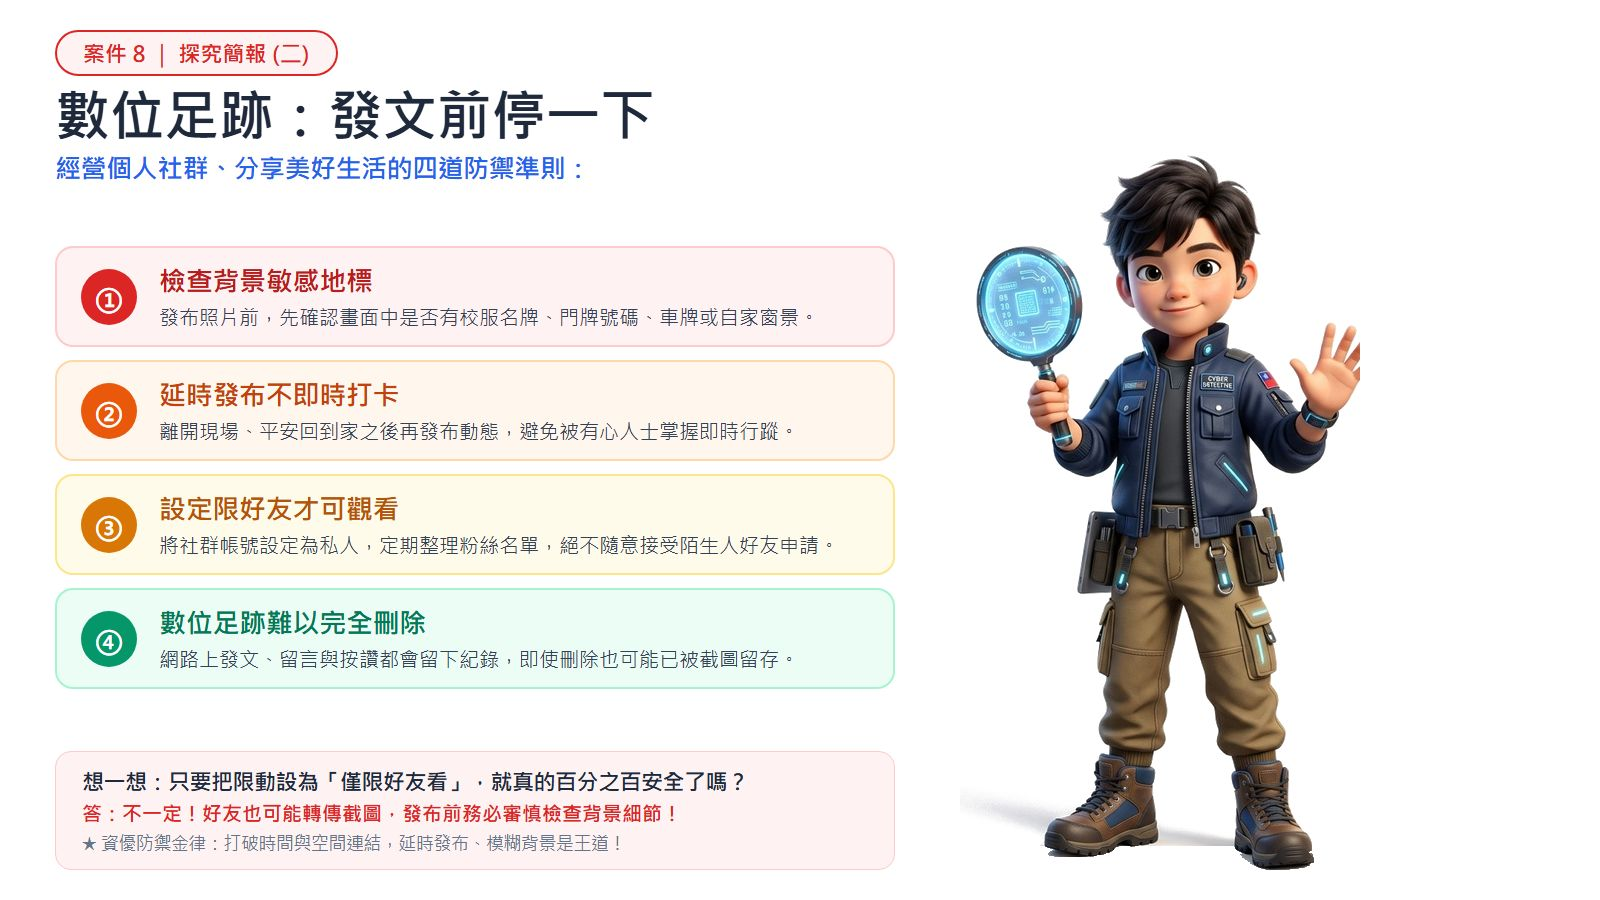
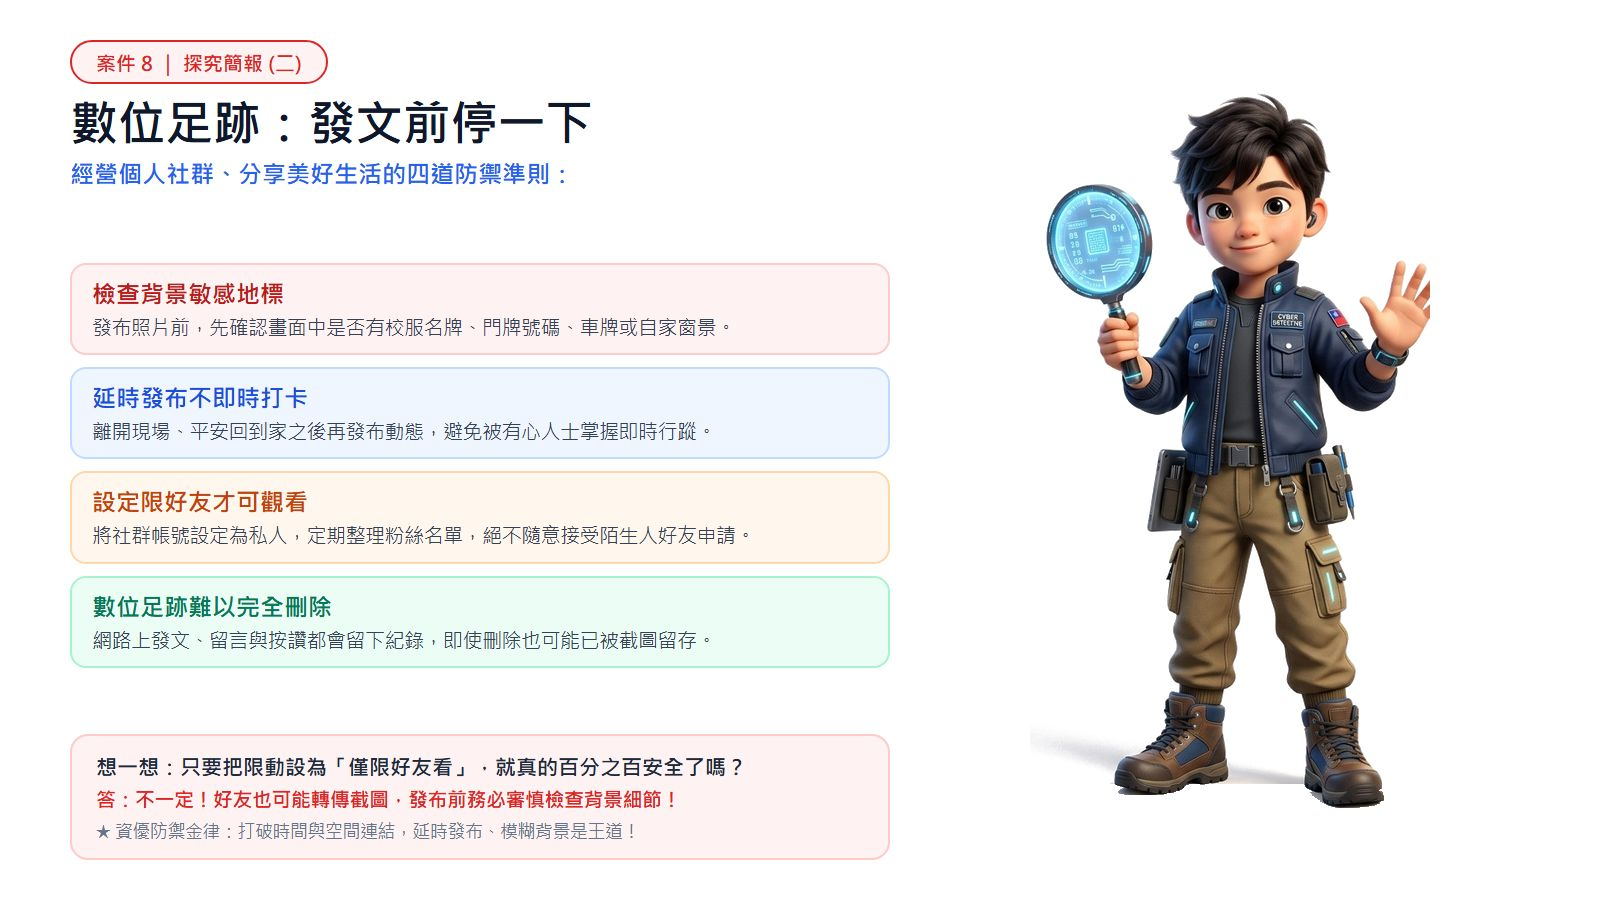
feat: 依 Kristy 指導完成案件 8 (選項 B 彩框無數字大字版) 正式上線

diff --git a/units/g5-cyber-safety/index.html b/units/g5-cyber-safety/index.html
@@ -587,7 +587,7 @@
         {
           title: '案件 8　限時動態洩密',
           text: '沒寫名字也可能洩密。制服、門牌、站牌、打卡地點和時間，拼起來就能找到你。發文前先看一看，回家後晚點再發，限好友看。',
-          slides: ['assets/d1_story.jpg?v=20261024_case8_pixar_perfect', 'assets/d2_footprint.jpg?v=20261024_case8_pixar_perfect'],
+          slides: ['assets/d1_story.jpg?v=20261024_case8_b_perfect', 'assets/d2_footprint.jpg?v=20261024_case8_b_perfect'],
           interactive: GAMES.story,
           quizzes: [
             {
@@ -608,7 +608,7 @@
               feedback: '延時發布能打破「時間＋空間」的物理連結，讓潛在犯罪者無法掌握你的即時行蹤。'
             }
           ],
-          infographic: 'assets/i8_story_v3.jpg?v=20261024_case8_pixar_perfect',
+          infographic: 'assets/i8_story_v3.jpg?v=20261024_case8_b_perfect',
           teacherTips: ['可請學生分組找出自己平常拍照容易入鏡的個資（制服、名牌、車牌、門牌、窗外地標）。']
         },
         {

diff --git a/handoff.md b/handoff.md
@@ -146,21 +146,28 @@
   - **Kristy 確認選擇「B」**：採用 4 彩色大卡片框（紅、藍、橘、綠對比鮮明版），徹底移除 `1 2 3 4` 數字，標題放大至 `24px`，內文放大至 `19.5px`。
   - **排版呼吸感優化**：大標題精煉為單行 `偷拍的照片會說話：照片隱私大解密`，底部「想一想」文字框與「★ 資安偵探金律」框與上方 4 個彩框 100% 精準對齊，右側 3D 綠毛衣男孩展示 GPS 平板與紅領巾女孩同理心互動立體無瑕，球鞋穩健踏地留白充裕。
   - **快取碼刷新與上線**：覆蓋 `final_case7.jpg` 與 `i7_photo_v3.jpg`，更新 `index.html` 快取碼 `?v=20261024_case7_b_perfect`。
+- **依據 Kristy 最新指導完成案件 8（小美的限動冒險·紅藍橘綠 4 彩框大字體·無數字·小美自拍與小男孩停看聽）全面升級上線（2026-10-24 21:52）**：
+  - **Kristy 確認選擇「B」**：採用 4 彩色大卡片框（紅、藍、橘、綠對比鮮明版），徹底移除 `1 2 3 4` 數字，標題放大至 `24px`，內文放大至 `19.5px`。
+  - **全套三圖升級完成**：
+    - 探究簡報（一）（`d1_story.jpg`）：小美自拍與背景資訊（學校名牌、門牌號碼、站牌地標、即時打卡），搭配純白 3D 小美自拍女孩。
+    - 探究簡報（二）（`d2_footprint.jpg`）：小男孩偵探停一下手勢（檢查背景、延時發布、設限好友、足跡難刪），小男孩向左微移保留 70px 黃金呼吸留白。
+    - 探究思維圖解（`i8_story_v3.jpg`）：限時動態防洩密指南（隱藏制服、模糊地標、延時發布、限好友），四彩框＋底部防洩密金律框。
+  - **快取碼刷新與上線**：覆蓋 `d1_story.jpg`、`d2_footprint.jpg` 與 `i8_story_v3.jpg`，更新 `index.html` 快取碼 `?v=20261024_case8_b_perfect`。
 - 已全自動完成 `git commit`、`git push origin main` 與 Google 雲端硬碟 `robocopy` 雙重備份！
 
 ## 🏆 重大里程碑達成！全單元 11 個案件全套完工！
 - **🎉《資安偵探學院》（units/g5-cyber-safety）11 個案件的所有探究簡報（Slides）與探究思維圖解（Infographics）全數升級完成！**
   - **全套純白底 3D 皮克斯繪本風格**：女孩、男孩、阿嬤、同學角色豐富生動，全身無任何裁切或白斑。
   - **全套統一紅框紅字規格標籤**：`案件 N ｜ 探究簡報`、`案件 N ｜ 探究思維圖解`。
-  - **依案件屬性精緻化版面**：案件 1 採用純金字塔＋紅色向上階梯箭頭；案件 2、案件 3、案件 4、案件 5、案件 6、案件 7 採用彩框大字體無數字版；其他案件依屬性配置四彩大卡片或清爽大字圓點條列。
+  - **依案件屬性精緻化版面**：案件 1 採用純金字塔＋紅色向上階梯箭頭；案件 2、案件 3、案件 4、案件 5、案件 6、案件 7、案件 8 採用彩框大字體無數字版；其他案件依屬性配置四彩大卡片或清爽大字圓點條列。
   - **全套統一底部互動問答框 / 金律提示框**：增強課堂互動與核心觀念收斂。
   - **全套統一舒適呼吸留白**：文字卡片與插圖間保留 70px~150px 充裕空間，徹底告別擁擠與遮擋。
 - 教學影片播放清單（含《2020》網路危機等 4 部短片）已上線。
 
 ## ➡ 下一步
-1. 緊接著「照順序」推進【案件 8：小美的限動冒險（限時動態防洩密與隱私）】：
-   - 準備案件 8 的打樣預覽（選項 A 無中間框 vs 選項 B 有 4 彩框），呈報 Kristy 檢閱二選一。
-2. 案件 8 確認後，依序推進案件 9、案件 10、案件 11...
+1. 緊接著「照順序」推進【案件 9：釣魚網址與 QR code 陷阱】：
+   - 準備案件 9 的打樣預覽（選項 A 無中間框 vs 選項 B 有 4 彩框），呈報 Kristy 檢閱二選一。
+2. 案件 9 確認後，依序推進案件 10、案件 11。
 3. 始終堅持「改之前必定給 Kristy 確認」！
 
 ## ⚠ 注意事項
@@ -168,7 +175,8 @@
 - 所有插圖一律為 16:9 純白底繪本規格，零切邊、零陰影框。
 
 ## 🕐 最後更新
-- 時間：2026-10-24 17:12
+- 時間：2026-10-24 21:52
 - 更新者：Antigravity @ LAPTOP-IUMJF2MM
+
 
 
